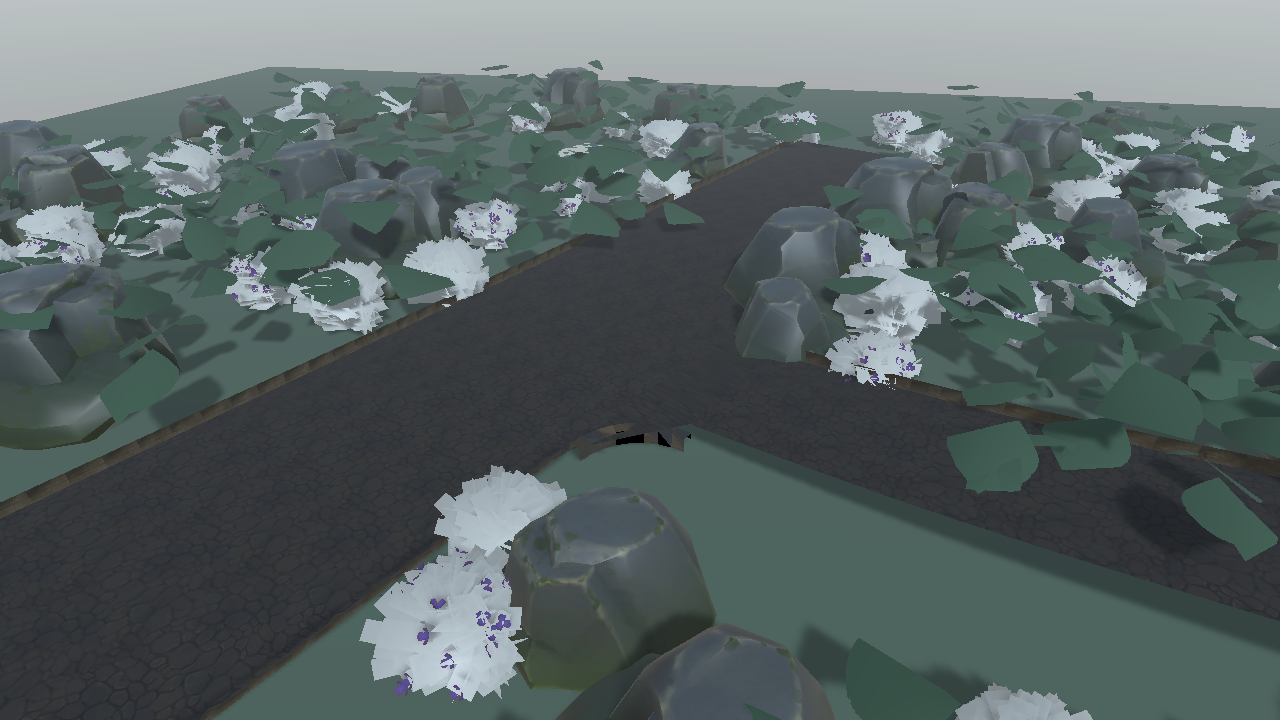
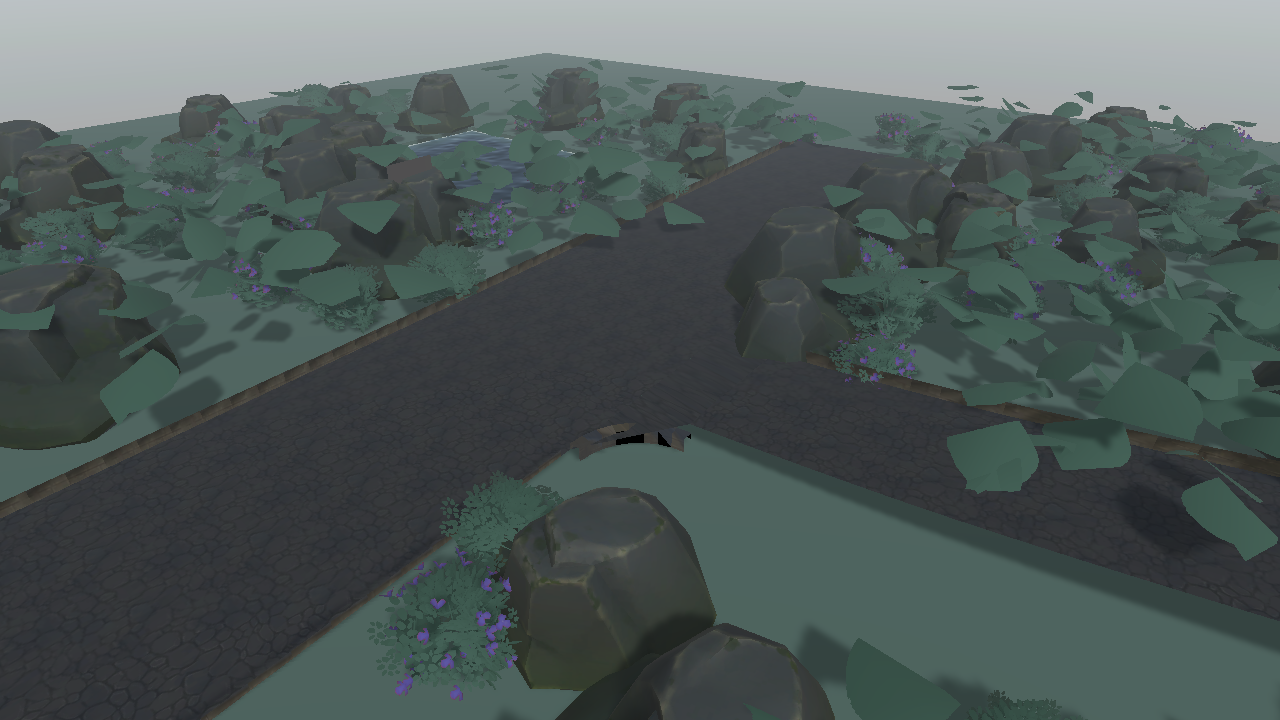
WP-H2F-02: single-sided junction kerb fillets; collision-free evidence bodies; trees in scatter sample
Owner inspection found black shading at the junction mouth (double-sided fillet band averaged
to degenerate normals) and evidence bodies standing in kerbs.

diff --git a/Docs/evidence/WP-H2F-02/workspace/Editor/J2H2F02Evidence.cs b/Docs/evidence/WP-H2F-02/workspace/Editor/J2H2F02Evidence.cs
@@ -56,6 +56,7 @@ namespace Juego2.H2F02.Evidence
             public J2ShaderAudit.Report routeAudit, contentAudit, worldbuildingAudit;
             public int junctionSamples, junctionHoles, junctionSteps, scatterInstances, scatterInExclusion;
             public bool citizenAvatarValid, playerIsGc2Player, npcInputNone;
+            public string[] characterOverlaps;
         }
 
         public static void Representative()
@@ -102,13 +103,14 @@ namespace Juego2.H2F02.Evidence
                 npcPreset.name = "J2_Npc_Civilian (evidence copy)";
                 npcPreset.model = playerPreset.model;
                 npcPreset.locomotionController = controller;
-                var start = Ground(new Vector3(0, 40, -8));
+                var start = FreeSpot(new Vector3(-0.2f, 0, -8f));
                 var player = J2Gc2Presets.MaterializeCharacter(playerPreset, "j2.char.player", start);
-                var npc = J2Gc2Presets.MaterializeCharacter(npcPreset, "j2.npc.evidence_a", Ground(new Vector3(1.6f, 40, -5.5f)));
+                var npc = J2Gc2Presets.MaterializeCharacter(npcPreset, "j2.npc.evidence_a", FreeSpot(new Vector3(0.4f, 0, -5.4f)));
                 npc.transform.rotation = Quaternion.Euler(0, 200, 0);
                 J2Gc2Presets.MaterializePlayerCamera(AssetDatabase.LoadAssetAtPath<J2CameraPreset>(J2FoundationBaseline.CameraPreset));
                 r.playerIsGc2Player = new SerializedObject(player).FindProperty("m_IsPlayer").boolValue;
                 r.npcInputNone = new SerializedObject(npc).FindProperty("m_Kernel.m_Player.m_InputMove.m_Input").managedReferenceFullTypename.EndsWith("InputValueVector2None");
+                r.characterOverlaps = new[] { player.gameObject, npc.gameObject }.SelectMany(Overlaps).ToArray();
                 r.lintFindings = J2Gc2Lint.CheckScene(scene).Select(f => f.ToString()).ToArray();
                 r.identityFields = IdentityFields(scene);
                 r.bindings = UnityEngine.Object.FindObjectsByType<ArkusEntityBinding>(FindObjectsSortMode.None).Select(b => b.entityKey).OrderBy(k => k).ToArray();
@@ -210,9 +212,12 @@ namespace Juego2.H2F02.Evidence
 
             var scatter = ScriptableObject.CreateInstance<J2ScatterProfile>();
             scatter.name = "art_nature";
-            scatter.entries = new[] { "Bush_Common", "Fern_1", "Rock_Medium_1", "Bush_Common_Flowers" }
-                .Select(id => ArtPalettePrefab($"Assets/Arkus/ART/External/Nature/Models/{id}.fbx", $"{Dir}/Nature/{id}.prefab"))
-                .Select(p => new J2ScatterProfile.Entry { prefab = p, weight = 1, scaleBand = new Vector2(0.8f, 1.2f) }).ToArray();
+            scatter.entries = new[] { ("CommonTree_1", 0.35f), ("Bush_Common", 1f), ("Rock_Medium_1", 0.8f), ("Bush_Common_Flowers", 1f) }
+                .Select(e => new J2ScatterProfile.Entry
+                {
+                    prefab = ArtPalettePrefab($"Assets/Arkus/ART/External/Nature/Models/{e.Item1}.fbx", $"{Dir}/Nature/{e.Item1}.prefab"),
+                    weight = e.Item2, scaleBand = new Vector2(0.8f, 1.2f),
+                }).ToArray();
             scatter.density = 0.45f; scatter.minSpacing = 1.4f; scatter.exclusionMargin = 0.6f;
             var nature = J2ScatterRealizer.Realize(new GameObject("nature").transform, new Bounds(Vector3.zero, new Vector3(40, 6, 40)), scatter, 20260928);
             r.scatterInstances = nature.transform.childCount;
@@ -260,6 +265,30 @@ namespace Juego2.H2F02.Evidence
         {
             try { action(); }
             catch (Exception e) { errors.Add(name + ": " + e.GetType().Name + ": " + e.Message); Debug.LogException(e); }
+        }
+
+        /// <summary>
+        /// A standing spot near <paramref name="near"/> whose body capsule (0.05-1.8 m above the feet, radius 0.3) touches
+        /// nothing: evidence bodies are placed, not simulated, so they must not stand in kerbs, walls or props.
+        /// </summary>
+        static Vector3 FreeSpot(Vector3 near)
+        {
+            for (int ring = 0; ring < 12; ring++)
+                for (int k = 0; k < Mathf.Max(1, ring * 8); k++)
+                {
+                    float a = k * Mathf.PI * 2 / Mathf.Max(1, ring * 8);
+                    var feet = Ground(new Vector3(near.x + Mathf.Cos(a) * ring * 0.15f, 40, near.z + Mathf.Sin(a) * ring * 0.15f));
+                    if (!Physics.CheckCapsule(feet + Vector3.up * 0.35f, feet + Vector3.up * 1.5f, 0.3f)) return feet;
+                }
+            throw new Exception("H2F02_NO_FREE_SPOT near " + near);
+        }
+
+        static IEnumerable<string> Overlaps(GameObject body)
+        {
+            Physics.SyncTransforms();
+            var feet = body.transform.position + Vector3.down * 0.92f; // GC2 Character origin sits at the capsule centre
+            return Physics.OverlapCapsule(feet + Vector3.up * 0.35f, feet + Vector3.up * 1.5f, 0.3f)
+                .Where(c => !c.transform.IsChildOf(body.transform)).Select(c => body.name + " overlaps " + c.name);
         }
 
         static Vector3 Ground(Vector3 from)

diff --git a/Unity/ArkusUnity/Assets/Juego2/Foundation/Editor/J2JunctionRealizer.cs b/Unity/ArkusUnity/Assets/Juego2/Foundation/Editor/J2JunctionRealizer.cs
@@ -116,16 +116,22 @@ namespace Juego2.Foundation.Editor
 
         static void Fillet(List<Vector3> v, List<int> t, Vector3 centre, Vector3 dirA, Vector3 dirB, float radius, float kerb, float height, float embed)
         {
-            // road-facing inner edge at radius+kerb, outer edge at radius (the kerb band sits on the corner)
+            // road-facing inner edge at radius+kerb, outer edge at radius (the kerb band sits on the corner).
+            // Faces: road-facing side (normal away from the corner centre), top (up), back side (toward the centre).
             (float r, float h)[] ring = { (radius + kerb, 0f), (radius + kerb, height), (radius, height), (radius, -embed) };
-            int start = v.Count;
-            foreach (var dir in new[] { dirA, dirB })
-                foreach (var (r, h) in ring)
-                    v.Add(centre + dir * r + Vector3.up * h);
+            var mid = (dirA + dirB).normalized;
+            Vector3[] outward = { mid, Vector3.up, -mid };
             for (int k = 0; k < ring.Length - 1; k++)
             {
-                int i0 = start + k, i1 = i0 + 1, j0 = start + ring.Length + k, j1 = j0 + 1;
-                t.AddRange(new[] { i0, i1, j0, i1, j1, j0, i0, j0, i1, i1, j0, j1 }); // double-sided band
+                // one quad per face with its own vertices, so flat faces keep crisp, well-defined normals
+                int start = v.Count;
+                v.Add(centre + dirA * ring[k].r + Vector3.up * ring[k].h);
+                v.Add(centre + dirA * ring[k + 1].r + Vector3.up * ring[k + 1].h);
+                v.Add(centre + dirB * ring[k].r + Vector3.up * ring[k].h);
+                v.Add(centre + dirB * ring[k + 1].r + Vector3.up * ring[k + 1].h);
+                var n = Vector3.Cross(v[start + 1] - v[start], v[start + 2] - v[start]);
+                if (Vector3.Dot(n, outward[k]) >= 0) t.AddRange(new[] { start, start + 1, start + 2, start + 1, start + 3, start + 2 });
+                else t.AddRange(new[] { start, start + 2, start + 1, start + 1, start + 2, start + 3 });
             }
         }
     }

diff --git a/Unity/ArkusUnity/Assets/Juego2/Foundation/Tests/Editor/J2WorldbuildingTests.cs b/Unity/ArkusUnity/Assets/Juego2/Foundation/Tests/Editor/J2WorldbuildingTests.cs
@@ -105,6 +105,11 @@ namespace Juego2.Foundation.Tests
             Assert.That(report.holes, Is.Zero, $"holes {report.holes}/{report.samples}");
             Assert.That(report.steps, Is.Zero, $"max step {report.maxStepFound:F3}");
             Assert.That(result.junction.GetComponent<J2GeneratedRealization>().generator, Is.EqualTo(J2JunctionRealizer.Generator));
+            // kerb fillets are single-sided with well-formed normals (a double-sided band averaged to degenerate, black normals)
+            var fillets = result.junction.transform.Find("kerb_fillets").GetComponent<MeshFilter>().sharedMesh;
+            Assert.That(fillets.normals.All(n => n.magnitude > 0.99f), Is.True, "degenerate fillet normals");
+            Assert.That(fillets.normals.Count(n => n.y > 0.99f), Is.GreaterThan(0), "fillet top faces must face up");
+            Assert.That(fillets.triangles.Length / 3, Is.EqualTo(2 * 8 * 3 * 2), "one quad per face, no duplicated back faces");
         }
 
         [Test]

diff --git a/Docs/evidence/WP-H2F-02/H1_COMPATIBILITY.md b/Docs/evidence/WP-H2F-02/H1_COMPATIBILITY.md
@@ -28,3 +28,15 @@ Nothing else under `Assets/Arkus/H1`, `tools/`, `src/`, `tests/` or H1 evidence 
 - H1-managed scenes and prefabs keep only H1-allowlisted components (Transform, MeshRenderer, Animator, canonical link). A selected-tool component authored inside a managed scene is unmanaged drift, which H1 reports by design.
 - The lighting/look sidecar is the active scene; H1-managed scenes load additively.
 - Per-family expectations for materialize, observe, reconcile and rematerialize/clean rebuild are in `H1_LIFECYCLE_MATRIX.csv`. H2F-03 owns the composed lifecycle proof over that matrix with the full stack present.
+
+## 4. Hosted run record
+
+| SHA (Unity tree) | H1-07 | H1-08 | H1-09 | H1-10 | H1-11 | Meaning |
+|---|---|---|---|---|---|---|
+| `d770bf20` (URP adopted, snapshot not yet re-baselined) | failure 36372671029 | failure 36372671015 | failure 36372670925 | failure 36372670963 | failure 36372670931 | H1 fails closed: `projection.catalogue-snapshot-stale`, one differing row |
+| `1b91d43d` (snapshot re-baselined) | success 36373728445 | success 36373728505 | success 36373728511 | success 36373728441 | cancelled | re-baseline restores H1 |
+| `2a2a9112` (URP first-use state committed) | success 36389412638 | success 36389412577 | success 36389412719 | cancelled | **success 36389412778** (cleanup clean-tree check passes) | URP init no longer dirties the tree |
+| `0e4a44ac` (tree `c9813874`, identical to the final evidence) | success 36390296667 | success 36390296763 | success 36390296765 | success 36390296837 | recorded on the PR | final Unity bytes |
+
+Later docs-only commits keep the Unity tree `c9813874`; their hosted runs are listed on the PR.
+
